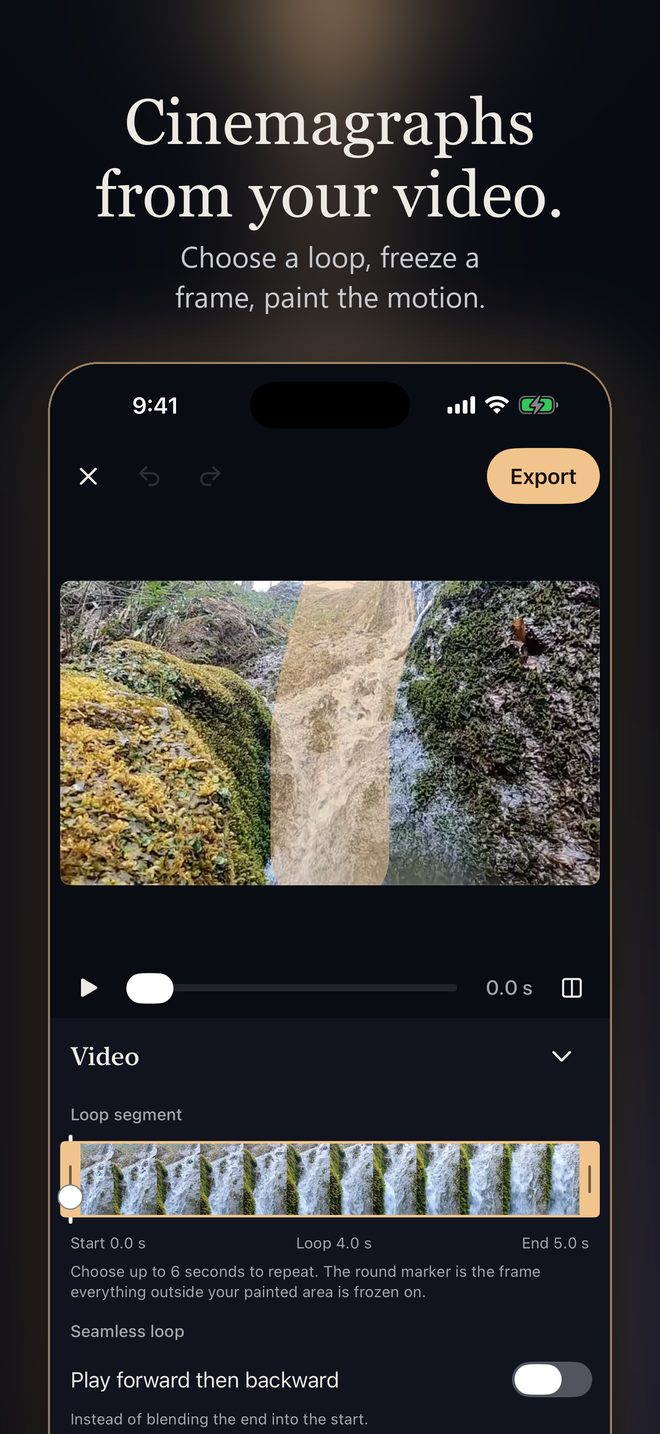
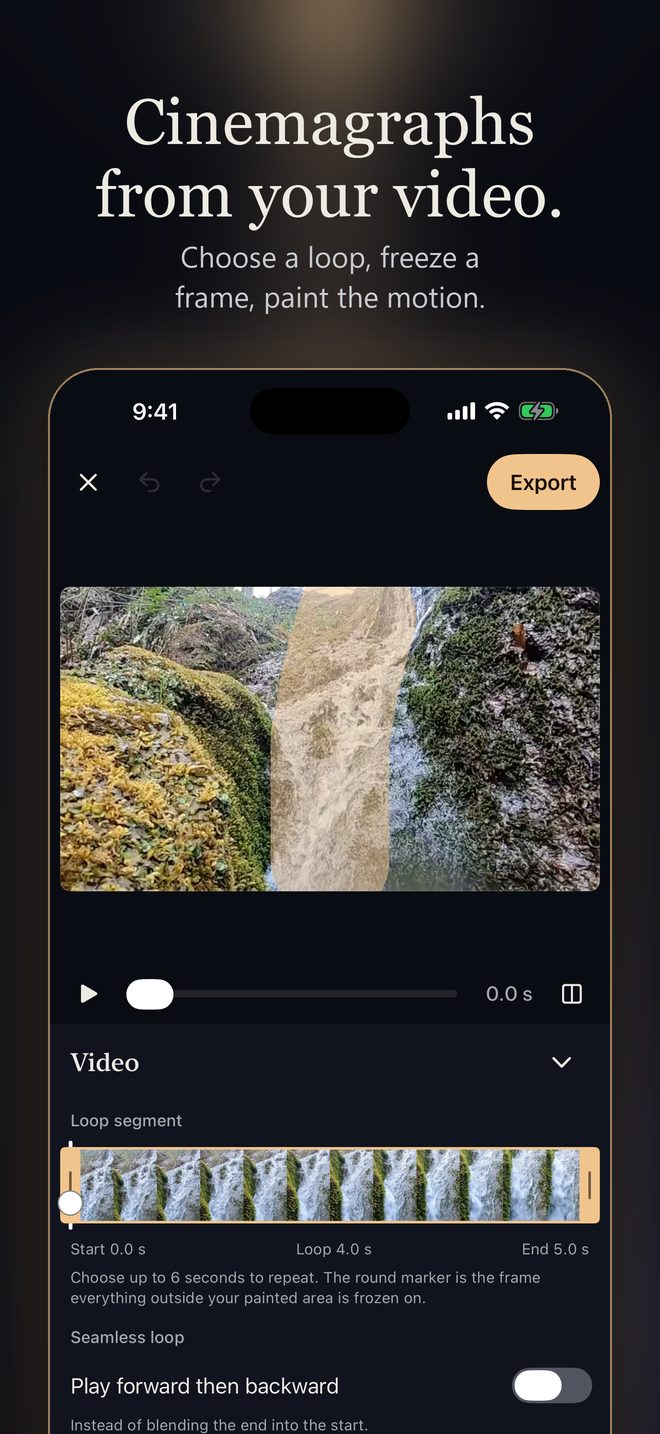
Regenerate all App Store slides from CI run 44449073573; consistent device position, Export slide shown whole

diff --git a/tools/store_shots_common.py b/tools/store_shots_common.py
@@ -40,6 +40,10 @@ SLIDES = [
 ]
 
 
+# Captures whose bottom edge carries pinned controls are shown whole instead of bleeding off the slide.
+FIT_SLIDES = {"export"}
+
+
 def font(names, size):
     for n in names:
         for base in ("C:/Windows/Fonts/", "/usr/share/fonts/truetype/dejavu/", "/System/Library/Fonts/Supplemental/"):
@@ -109,7 +113,7 @@ def wrap_text(draw, text, fnt, max_w):
     return lines
 
 
-def make_slide(W, H, shot_path, lines, caption, opts, brand=False):
+def make_slide(W, H, shot_path, lines, caption, opts, brand=False, fit=False):
     canvas = background(W, H)
     d = ImageDraw.Draw(canvas)
     head_f, sub_f = serif(opts["head"]), sans(opts["sub"])
@@ -127,29 +131,39 @@ def make_slide(W, H, shot_path, lines, caption, opts, brand=False):
     for sl in wrap_text(d, caption, sub_f, W * 0.86):
         d.text((W / 2, y), sl, font=sub_f, fill=MIST, anchor="ma")
         y += int(opts["sub"] * 1.38)
-    # the capture: rounded top, bleeding off the bottom edge like a phone rising into frame
+    # the capture: by default a rounded top bleeding off the bottom edge (a phone rising into frame). With fit=True the
+    # whole capture is shown, scaled to the free height, for screens whose bottom edge carries controls (Export).
     shot = Image.open(shot_path).convert("RGB")
-    sw = opts["shot_w"]
-    shot = shot.resize((sw, round(shot.height * sw / shot.width)), Image.LANCZOS)
     top = max(y + opts["shot_gap"], opts["min_shot_top"])
-    avail = H - top
-    shot = shot.crop((0, 0, sw, min(shot.height, avail)))
-    framed = rounded_top(shot, opts["radius"])
+    if fit:
+        margin = opts["fit_margin"]
+        sw = int((H - top - margin) * shot.width / shot.height)
+        sh = H - top - margin
+        shot = shot.resize((sw, sh), Image.LANCZOS)
+        mask = Image.new("L", shot.size, 0)
+        ImageDraw.Draw(mask).rounded_rectangle([0, 0, sw - 1, sh - 1], opts["radius"], fill=255)
+        framed = shot.convert("RGBA")
+        framed.putalpha(mask)
+        bottom = top + sh
+    else:
+        sw = opts["shot_w"]
+        shot = shot.resize((sw, round(shot.height * sw / shot.width)), Image.LANCZOS)
+        shot = shot.crop((0, 0, sw, min(shot.height, H - top)))
+        framed = rounded_top(shot, opts["radius"])
+        bottom = H + 40
     x = (W - sw) // 2
-    # glow behind the device and a deep shadow
     halo = Image.new("L", (W, H), 0)
-    ImageDraw.Draw(halo).rounded_rectangle([x - 6, top - 6, x + sw + 6, H + 40], opts["radius"] + 6, fill=255)
+    ImageDraw.Draw(halo).rounded_rectangle([x - 6, top - 6, x + sw + 6, bottom + 6], opts["radius"] + 6, fill=255)
     halo_g = halo.filter(ImageFilter.GaussianBlur(opts["radius"] * 0.9)).point(lambda v: int(v * 0.30))
     canvas.paste(Image.new("RGB", (W, H), GLOW), (0, 0), halo_g)
     shadow = Image.new("RGBA", (W, H), (0, 0, 0, 0))
-    ImageDraw.Draw(shadow).rounded_rectangle([x, top + 30, x + sw, H + 80], opts["radius"], fill=(0, 0, 0, 190))
+    ImageDraw.Draw(shadow).rounded_rectangle([x, top + 30, x + sw, bottom + 40], opts["radius"], fill=(0, 0, 0, 190))
     shadow = shadow.filter(ImageFilter.GaussianBlur(opts["radius"] * 0.5))
     canvas.paste(shadow, (0, 0), shadow)
-    # champagne hairline edge
-    edge = Image.new("RGBA", (sw + 8, framed.height + 8), (0, 0, 0, 0))
-    ImageDraw.Draw(edge).rounded_rectangle([0, 0, edge.width - 1, edge.height + opts["radius"]], opts["radius"] + 4,
-                                           outline=GLOW + (150,), width=4)
-    canvas.paste(edge, (x - 4, top - 4), edge)
+    edge = Image.new("RGBA", (W, H), (0, 0, 0, 0))
+    ImageDraw.Draw(edge).rounded_rectangle([x - 4, top - 4, x + sw + 3, bottom + (opts["radius"] if not fit else 3)],
+                                           opts["radius"] + 4, outline=GLOW + (150,), width=4)
+    canvas.paste(edge, (0, 0), edge)
     canvas.paste(framed, (x, top), framed)
     return canvas.convert("RGB")
 
@@ -168,7 +182,7 @@ def run(argv, W, H, opts, ratio_name):
             missing.append(name)
             continue
         n += 1
-        slide = make_slide(W, H, shot_path, lines, caption, opts, brand=(name == "home-filled"))
+        slide = make_slide(W, H, shot_path, lines, caption, opts, brand=(name == "home-filled"), fit=(name in FIT_SLIDES))
         out = dst / f"{n:02d}-{name}.png"
         slide.save(out, optimize=True)
         wrote.append(out.name)

diff --git a/tools/make_store_shots.py b/tools/make_store_shots.py
@@ -14,7 +14,7 @@ sys.path.insert(0, str(Path(__file__).resolve().parent))
 import store_shots_common as common  # noqa: E402
 
 W, H = 1320, 2868
-OPTS = dict(head=128, sub=58, top=170, icon=150, gap=56, shot_w=1120, shot_gap=96, min_shot_top=690, radius=96)
+OPTS = dict(head=128, sub=58, top=170, icon=150, gap=56, shot_w=1120, shot_gap=96, min_shot_top=740, radius=96, fit_margin=70)
 
 if __name__ == "__main__":
     common.run(sys.argv, W, H, OPTS, "iPhone 6.9 inch")

diff --git a/tools/make_store_shots_ipad.py b/tools/make_store_shots_ipad.py
@@ -14,7 +14,7 @@ sys.path.insert(0, str(Path(__file__).resolve().parent))
 import store_shots_common as common  # noqa: E402
 
 W, H = 2064, 2752
-OPTS = dict(head=160, sub=72, top=170, icon=190, gap=64, shot_w=1640, shot_gap=110, min_shot_top=720, radius=72)
+OPTS = dict(head=160, sub=72, top=170, icon=190, gap=64, shot_w=1640, shot_gap=110, min_shot_top=780, radius=72, fit_margin=70)
 
 if __name__ == "__main__":
     common.run(sys.argv, W, H, OPTS, "iPad 13 inch")
